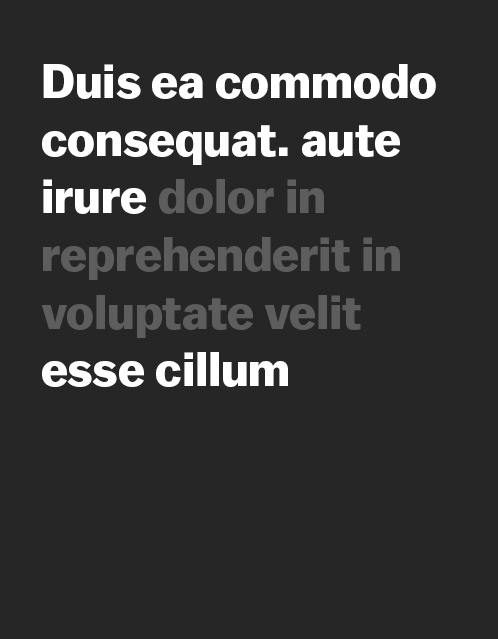
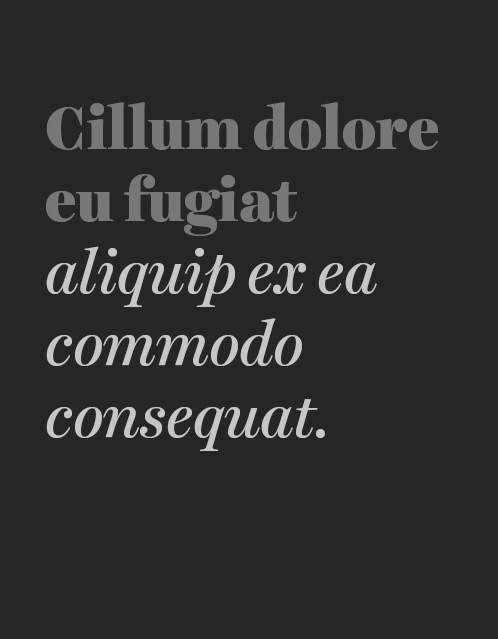
designed all the  things

Changed region(s): [[0.0602, 0.0892, 0.8735, 0.7136]]

diff --git a/app/assets/stylesheets/guide-cards.scss b/app/assets/stylesheets/guide-cards.scss
@@ -4,7 +4,7 @@
   //white-space: nowrap;
   flex-wrap: wrap;
   overflow-x: scroll;
-  height: 312px;
+  height: 412px;
   overflow-y: hidden;
   margin-top:14px;
   //padding: 0 140px;
@@ -14,10 +14,10 @@
     position: absolute;
     top:0;
     left:0;
-    padding:30px;
+    padding:30px 50px;
     text-align: initial;
-    font-size: 14px;
-    line-height: 1.2;
+    font-size: 16px;
+    line-height: 1.4;
     height:100%;
     width:100%;
   }
@@ -40,6 +40,9 @@
       height: 620px;
       top: calc(50% - 310px);
       left: calc(50% - 310px);
+    }
+    .guide-under {
+      opacity: 1;
     }
   }
   .hover-trigger {
@@ -169,11 +172,11 @@
     position: relative;
     white-space: initial;
     //width:25%;
-    min-height: 300px;
-    min-width:200px;
+    min-height: 400px;
+    min-width:260px;
     margin: 5px;
     text-align: center;
-    padding: 30px 20px;
+    //padding: 30px 20px;
     background-color: #222;
     background-repeat:no-repeat;
     background-size:contain;
@@ -186,6 +189,20 @@
       top:0;
       left:0;
     }
+    .guide-under {
+      width: 100%;
+      height: 100%;
+      transition: opacity .6s;
+      background-size: contain;
+      background-image:asset_url('guide-2-grey.png');
+      background-color: #262626;
+      background-repeat: no-repeat;
+      opacity: 0;
+      position: absolute;
+      top: 0;
+      left: 0;
+      z-index: 5;
+    }
     &:nth-child(1) {
       //background-image:asset_url('guide-cards-1.png');
       //background-image: url(https://images.unsplash.com/photo-1432839318976-b5c5785ce43f?dpr=2&fit=crop&fm=jpg&h=900&ixlib=rb-0.3.5&q=50&w=1700);
@@ -193,9 +210,10 @@
       .guide-headline {
         opacity: .8;
       }
+
     }
     &:nth-child(2) {
-      background-image:asset_url('guide-2.jpg');
+      background-image:asset_url('guide-2.png');
       .guide-headline {
         background-image:asset_url('guide-cards-2.png');
         background-size:contain;
@@ -216,6 +234,10 @@
 
     }
     &:nth-child(3) {
+      .guide-under {
+        background-image:asset_url('guide-2-blu.jpg');
+        background-color: #2d4654;
+      }
       .guide-headline {
         opacity: .6;
       }
@@ -226,6 +248,7 @@
     }
     &:nth-child(4) {
       background-image:asset_url('guide-2.jpg');
+      background-color: #262626;
       .guide-headline {
         background-image:asset_url('guide-cards-4.png');
         background-size:contain;

diff --git a/app/assets/stylesheets/recirc.scss b/app/assets/stylesheets/recirc.scss
@@ -86,10 +86,45 @@ ul {
   height:210.6px;
   padding:0 2vw;
   margin: 0 -2vw;
+  &:nth-child(1) {
+    .tile {
+      .tile-media {
+        //opacity: .7;
+      }
+      background:#333;
+      .tile__img {
+        //mix-blend-mode: multiply;
+        opacity: .4;
+      }
+    }
+  }
   &:nth-child(2) {
     margin-bottom: 16px;
     background: #222;
-   }
+    .tile:hover .tile-headline {
+      opacity: 0.15;
+    }
+    .tile__title {
+      top:45px;
+      padding: 0 30px;
+    }
+    .tile-headline {
+      //position: relative;
+      top:20px;
+      left:0;
+      width: 95%;
+      margin-left: -2.5%;
+      h2 {
+        margin: 0;
+        font-family: serif;
+        font-weight: normal;
+        font-style: italic;
+        background: rgba(255,255,255,1);
+        color: #000;
+        padding: 15px;
+      }
+    }
+  }
   .row {
     overflow-x: scroll;
     margin: 0px -2vw;
@@ -131,7 +166,7 @@ ul {
 .tile-headline {
   position: absolute;
   top: 50px;
-  left: 20px;
+  left: 0px;
   font-size: 14px;
   font-weight: bold;
   padding: 0 20px;
@@ -147,19 +182,20 @@ ul {
 	 opacity: 0;
 	 background: linear-gradient(to top, rgba(0,0,0,0.9) 0%, rgba(0,0,0,0.65) 30%, rgba(0,0,0,0) 100%);
 	 transition: 450ms opacity;
+   will-change: opacity, transform;
 }
 .title-overlay {
   position: relative;
   bottom:10px;
 }
- .tile__details:after, .tile__details .tile-1 {
-	 position: absolute;
-	 top: 50%;
-	 left: 50%;
-	 display: #000;
-   will-change: transform;
-
+.tile__details:after, .tile__details .tile-1 {
+  position: absolute;
+  top: 50%;
+  left: 50%;
+  display: #000;
+  will-change: transform;
 }
+
 /*
  .tile__details:after {
 	 margin-top: -25px;
@@ -190,12 +226,19 @@ ul {
 .tile:hover .tile-headline {
   opacity: 0.3;
 }
+.tile {
+  &:first-child {
+    .tile__title {
+      padding: 0 40px;
+    }
+  }
+}
  .tile__title {
    width: 100%;
    //font-size:14px;
 	 position: absolute;
 	 top: 50px;
-	 padding: 0 40px;
+	 padding: 0 20px;
 }
 .tile-inner-headline {
   width: 100%;

diff --git a/app/assets/stylesheets/water-stomp.scss b/app/assets/stylesheets/water-stomp.scss
@@ -1,7 +1,7 @@
 .center {
   text-align: center;
   position: absolute;
-  top: 75px;
+  top: 125px;
   left: 0;
   width:100%;
 }
